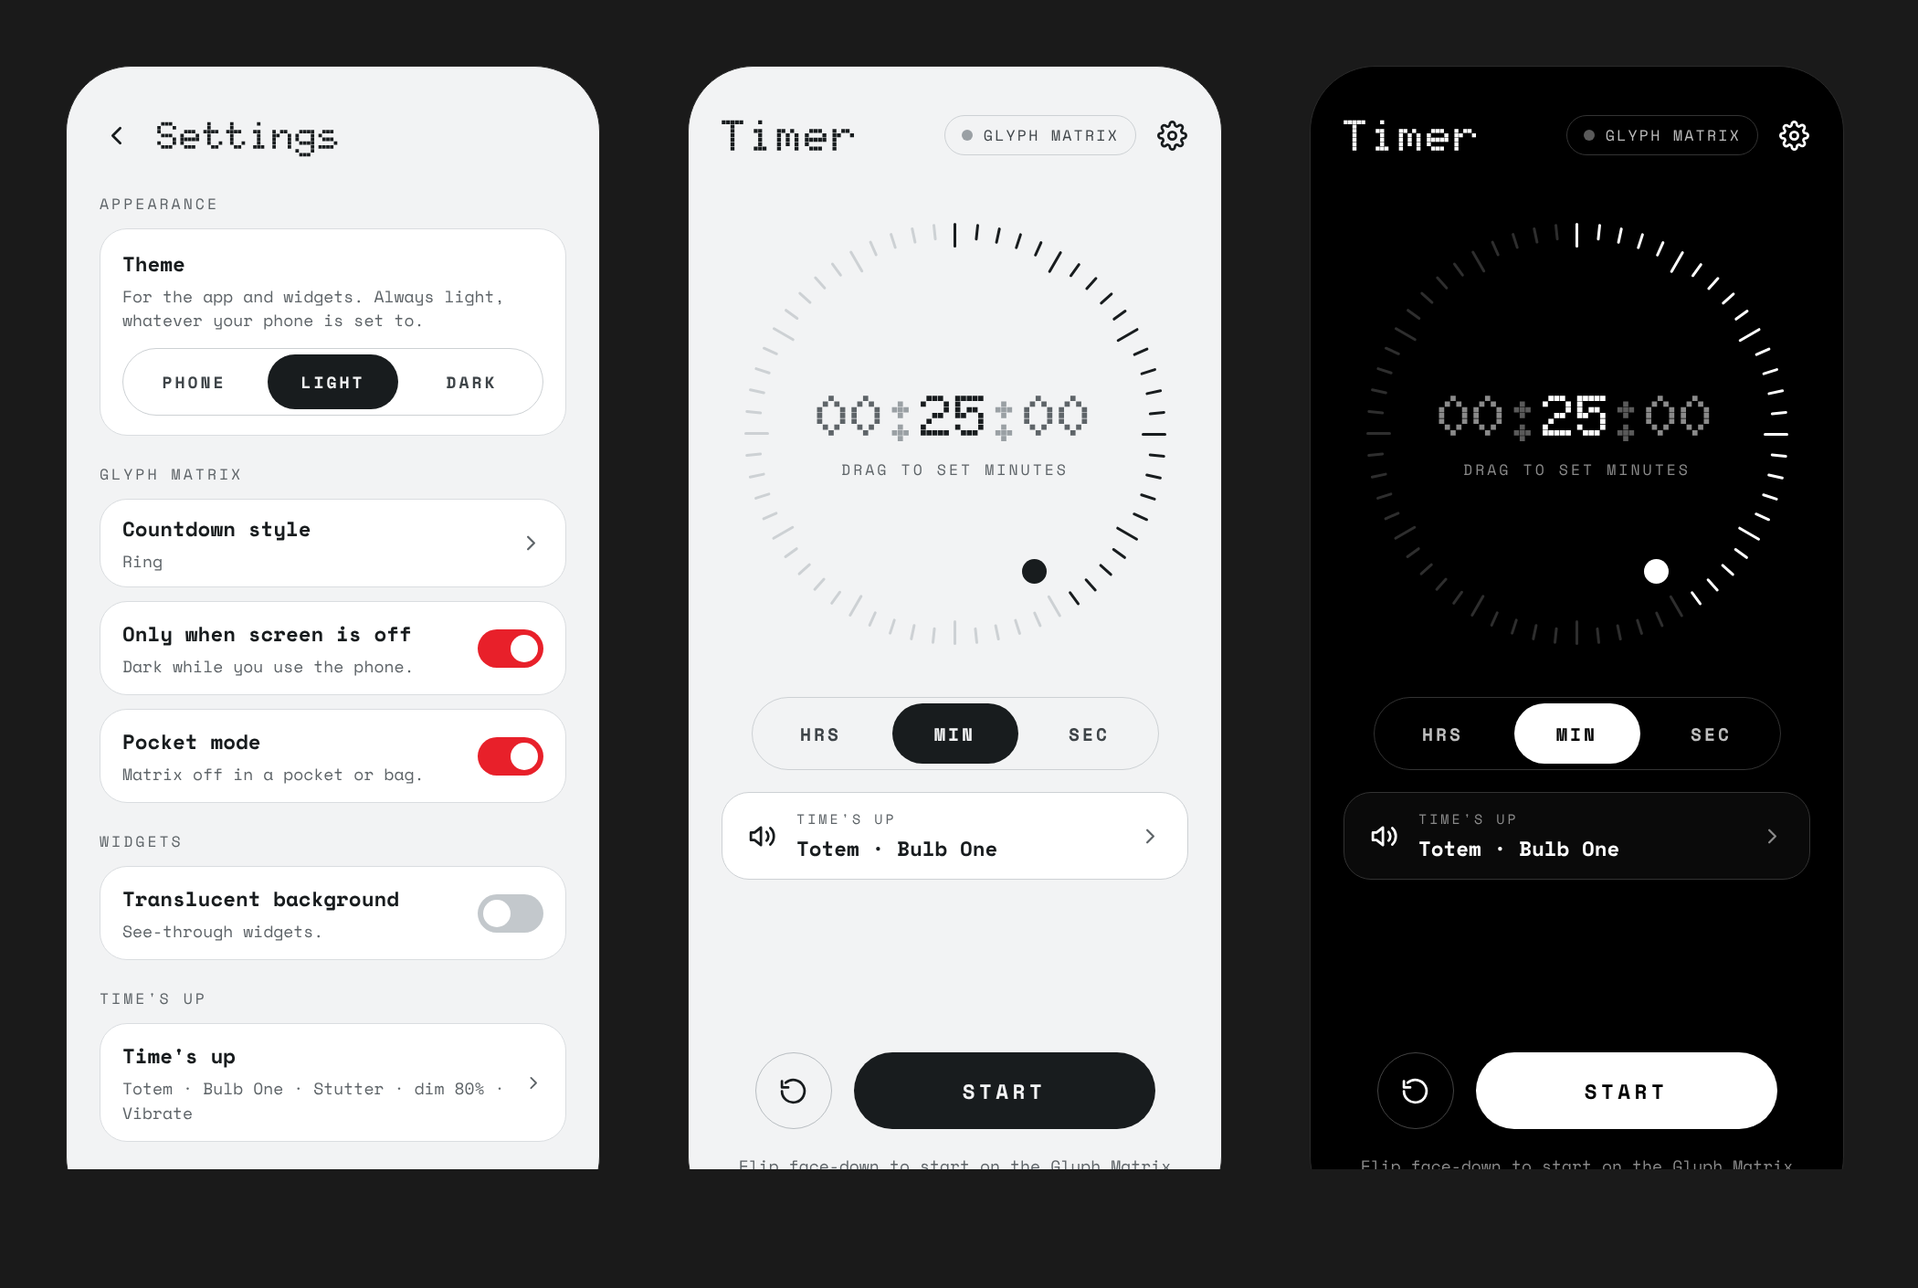
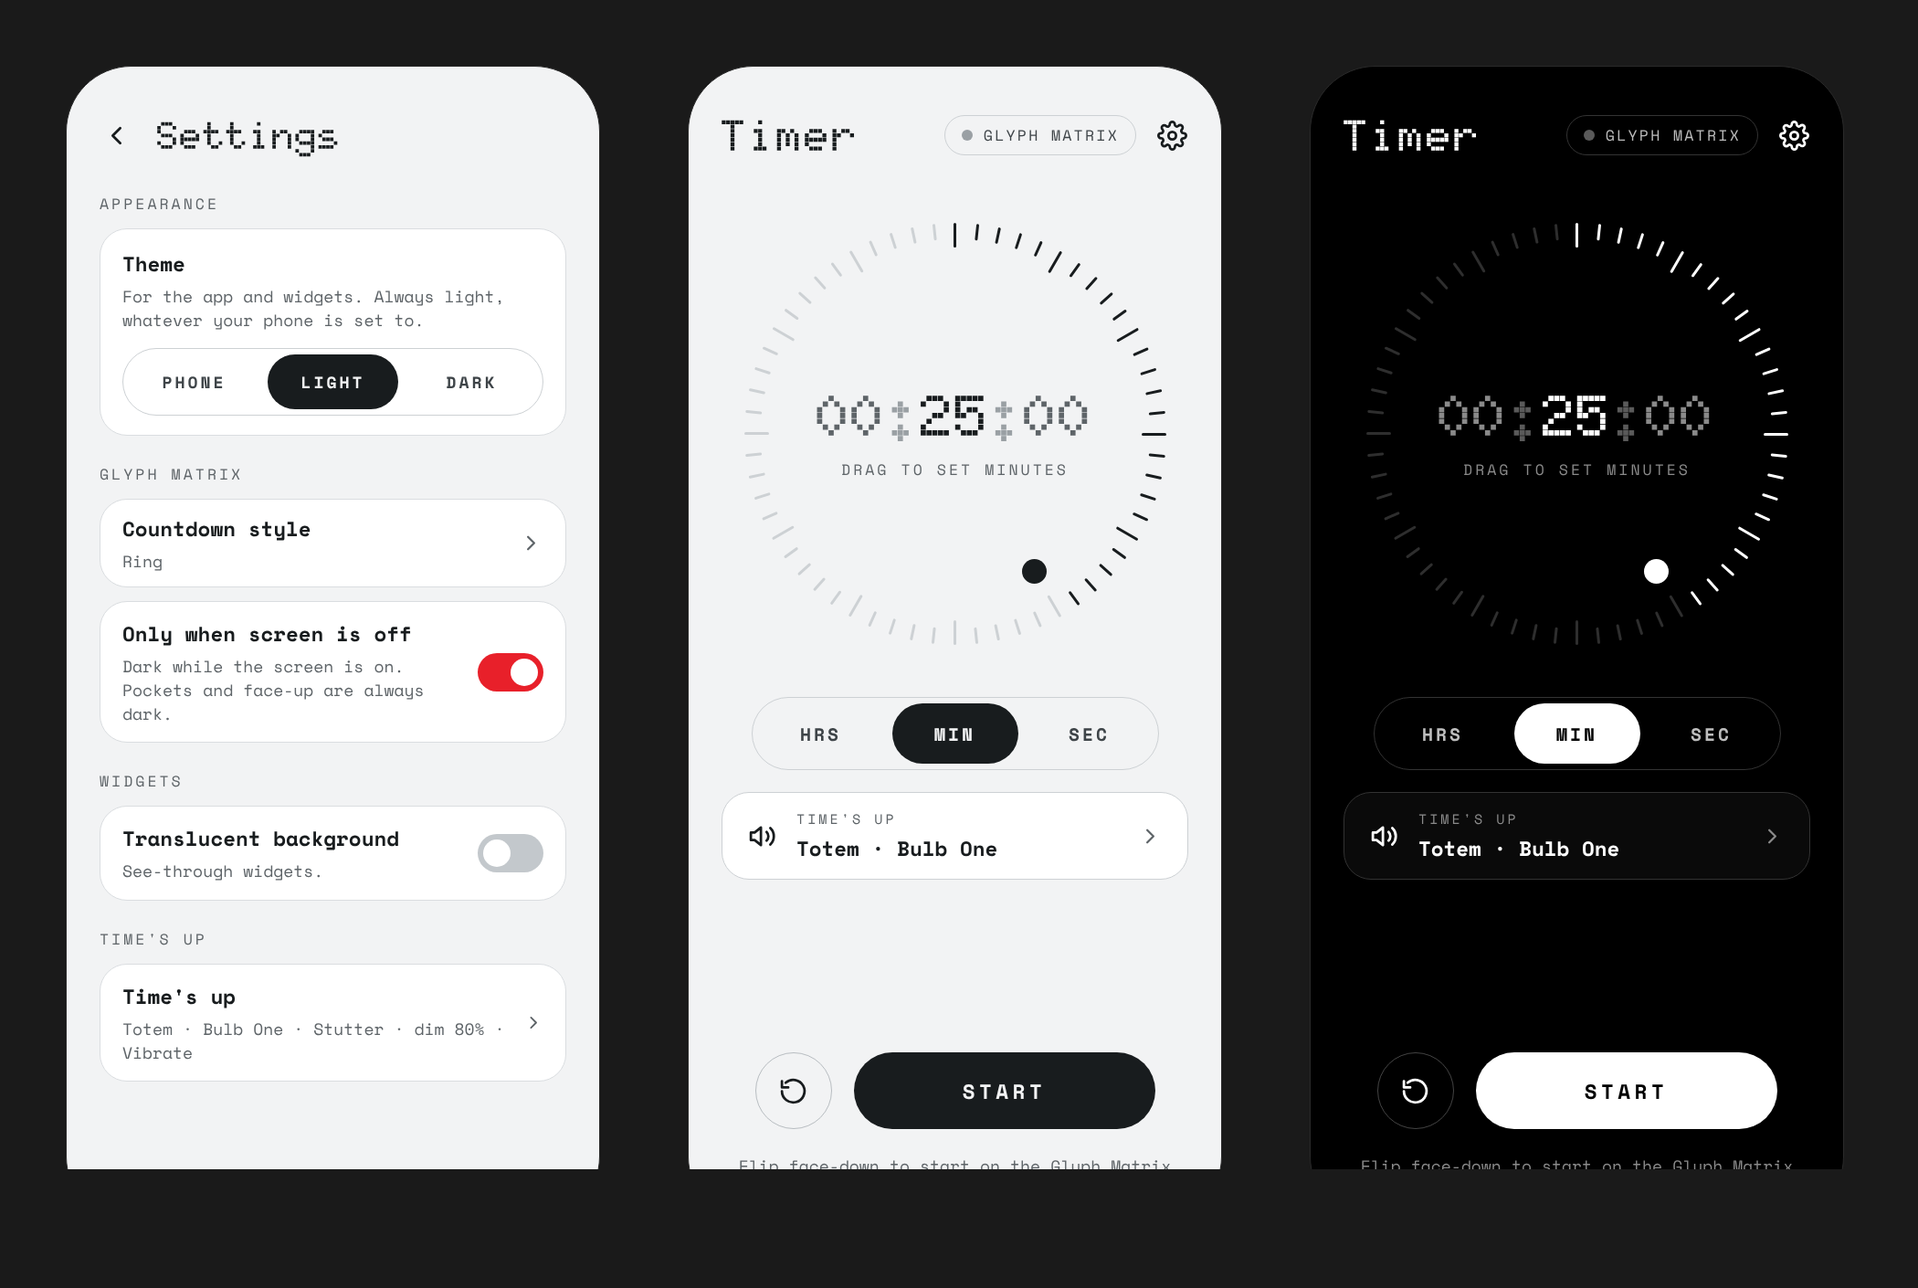
Glyph Countdown 1.4.2: sensor-based visibility replaces pocket mode
- Placement detector (proximity, angle, stillness): lit face-down on a
  table or in hand with the screen off; dark in a pocket or bag, face-up
  on a table, or while the screen is on
- Stillness uses median jitter plus slow angle drift over 3 s, with
  knock-proof angle filtering, so a seated pocket isn't taken for a table
- Pocket mode setting removed; README, design images, release notes

Claude-Session: https://claude.ai/code/session_01KsCjPjN7msvXaRxsW5Af71

Changed region(s): [[0.0619, 0.4993, 0.2167, 0.8738], [0.2476, 0.4681, 0.3095, 0.7489], [0.2167, 0.7801, 0.2476, 0.8113]]

diff --git a/app/src/com/glyphcountdown/app/TimerService.java b/app/src/com/glyphcountdown/app/TimerService.java
@@ -85,55 +85,39 @@ public class TimerService extends Service {
         }
     };
 
-    // ---- pocket mode: matrix off while the front sensor is covered and the phone isn't flat face-down
+    // ---- where the phone is: the matrix lights face-down on a table or in your hand with the screen
+    //      off, and stays dark face-up on a table or covered (pocket or bag). See Placement.
     private SensorManager sensors;
-    private boolean near, flatFaceDown, pocketed, sensorsOn;
-    private final Runnable enterPocket = new Runnable() {
-        @Override public void run() { pocketed = true; pushMatrix(); }
-    };
-    private final SensorEventListener pocketListener = new SensorEventListener() {
+    private final Placement placement = new Placement();
+    private boolean sensorsOn;
+    private final SensorEventListener placementListener = new SensorEventListener() {
         @Override public void onSensorChanged(SensorEvent e) {
+            long t = SystemClock.elapsedRealtime();
+            boolean changed;
             if (e.sensor.getType() == Sensor.TYPE_PROXIMITY) {
                 float max = e.sensor.getMaximumRange();
-                near = e.values[0] < Math.min(max, 5f);
+                changed = placement.proximity(t, e.values[0] < Math.min(max, 5f));
             } else {
-                float x = e.values[0], y = e.values[1], z = e.values[2];
-                boolean fd = z < -8.5f && Math.abs(x) < 2.5f && Math.abs(y) < 2.5f;
-                if (fd != flatFaceDown) { flatFaceDown = fd; pushMatrix(); }
+                changed = placement.accel(t, e.values[0], e.values[1], e.values[2]);
             }
-            if (!Prefs.get(TimerService.this, Prefs.POCKET)) return;
-            boolean want = near && !flatFaceDown;
-            if (want && !pocketed) {
-                handler.removeCallbacks(enterPocket);
-                handler.postDelayed(enterPocket, 1000); // ignore a hand brushing the sensor
-            } else if (!want) {
-                handler.removeCallbacks(enterPocket);
-                if (pocketed) { pocketed = false; pushMatrix(); }
-            }
+            if (changed) pushMatrix();
         }
         @Override public void onAccuracyChanged(Sensor s, int a) {}
     };
 
-    private void startPocketSensors() {
+    private void startPlacementSensors() {
         if (sensorsOn) return;
         sensors = getSystemService(SensorManager.class);
         Sensor prox = sensors.getDefaultSensor(Sensor.TYPE_PROXIMITY);
-        Sensor grav = sensors.getDefaultSensor(Sensor.TYPE_GRAVITY);
-        if (grav == null) grav = sensors.getDefaultSensor(Sensor.TYPE_ACCELEROMETER);
-        // orientation is always tracked (face-down shows the matrix); proximity only for pocket mode
-        if (grav != null) sensors.registerListener(pocketListener, grav, SensorManager.SENSOR_DELAY_NORMAL);
-        if (prox != null && Prefs.get(this, Prefs.POCKET))
-            sensors.registerListener(pocketListener, prox, SensorManager.SENSOR_DELAY_NORMAL);
+        Sensor acc = sensors.getDefaultSensor(Sensor.TYPE_ACCELEROMETER);
+        if (acc != null) sensors.registerListener(placementListener, acc, 40_000);   // 25 readings a second
+        if (prox != null) sensors.registerListener(placementListener, prox, SensorManager.SENSOR_DELAY_NORMAL);
         sensorsOn = true;
     }
 
-    private void stopPocketSensors() {
-        handler.removeCallbacks(enterPocket);
-        if (sensorsOn && sensors != null) sensors.unregisterListener(pocketListener);
+    private void stopPlacementSensors() {
+        if (sensorsOn && sensors != null) sensors.unregisterListener(placementListener);
         sensorsOn = false;
-        near = false;
-        flatFaceDown = false;
-        pocketed = false;
     }
 
     public static void send(Context c, String action) {
@@ -198,7 +182,7 @@ public class TimerService extends Service {
         startForeground(NOTIF_ID, buildNotification(), ServiceInfo.FOREGROUND_SERVICE_TYPE_SPECIAL_USE);
         acquireWake();
         initMatrix();
-        startPocketSensors();
+        startPlacementSensors();
         handler.removeCallbacks(tick); handler.removeCallbacks(blink); handler.removeCallbacks(animTick);
         handler.post(tick);
         st.notifyChanged();
@@ -232,7 +216,7 @@ public class TimerService extends Service {
     private void reset() {
         handler.removeCallbacksAndMessages(null);
         if (backTap != null) backTap.stop();
-        stopPocketSensors();
+        stopPlacementSensors();
         stopAlarm();
         releaseWake();
         closeMatrix();
@@ -359,8 +343,9 @@ public class TimerService extends Service {
     private int[] matrixFrame() {
         int n = matrixSize;
         // face-down on a table counts as screen off: nobody can see the screen (flip to start)
-        boolean hidden = screenOn && !flatFaceDown && Prefs.get(this, Prefs.SCREEN_OFF_ONLY);
-        if (pocketed || hidden) return new int[n * n];
+        int where = placement.state();
+        boolean hidden = screenOn && where != Placement.TABLE_DOWN && Prefs.get(this, Prefs.SCREEN_OFF_ONLY);
+        if (!Placement.lights(where) || hidden) return new int[n * n];
         if (st.mode == TimerState.DONE && !MorphEngine.DEFAULT.equals(anim)) return animFrame(n);
         String style = Prefs.style(this);
         if ((st.mode == TimerState.RUN || st.mode == TimerState.PAUSE) && !CountdownStyles.RING.equals(style)) {
@@ -574,7 +559,7 @@ public class TimerService extends Service {
         handler.removeCallbacksAndMessages(null);
         try { unregisterReceiver(screenReceiver); } catch (Throwable ignored) {}
         if (backTap != null) backTap.stop();
-        stopPocketSensors();
+        stopPlacementSensors();
         stopAlarm();
         releaseWake();
         closeMatrix();

diff --git a/app/src/com/glyphcountdown/app/Placement.java b/app/src/com/glyphcountdown/app/Placement.java
@@ -1,0 +1,120 @@
+package com.glyphcountdown.app;
+
+/**
+ * Works out where the phone is from its motion and proximity sensors, to decide whether the Glyph
+ * Matrix should light. A table is the only place a phone lies both flat and perfectly still;
+ * a body (even sitting, with the phone nearly flat in a pocket) always moves a little: jitter,
+ * or a slow drift in its angle as you breathe or shift.
+ *
+ * <ul>
+ *   <li>{@link #TABLE_DOWN}: flat, screen down, still: the matrix faces up, so it lights.</li>
+ *   <li>{@link #TABLE_UP}: flat, screen up, still: the matrix faces the table, so it stays dark.</li>
+ *   <li>{@link #COVERED}: the front sensor is covered and it isn't on a table: pocket or bag, dark.</li>
+ *   <li>{@link #OPEN}: anything else, such as in your hand: lights (unless the screen is on).</li>
+ * </ul>
+ * Plain Java: fed readings with timestamps, so it can be tested off the phone.
+ */
+final class Placement {
+    static final int OPEN = 0, TABLE_DOWN = 1, TABLE_UP = 2, COVERED = 3;
+
+    private static final double DOWN_XY = 0.9;       // face-down: within about 5° of flat (it rests on its screen)
+    private static final double UP_XY = 1.5;         // face-up: about 9°, the camera bump tilts it a little
+    private static final double FLAT_Z = 9.0;
+    private static final double STILL_WOBBLE = 0.04, MOVING_WOBBLE = 0.09;  // m/s², quick jitter
+    private static final double STILL_DRIFT = 0.05, MOVING_DRIFT = 0.12;    // m/s², slow change of angle
+    private static final long WINDOW_MS = 3000;
+    private static final long SETTLE_MS = 500, COVER_SETTLE_MS = 1000;  // ignore a hand brushing the sensor
+    private static final int N = 512, SPIKE = 9;     // buffer size; readings in the knock filter
+
+    private final long[] times = new long[N];
+    private final double[] rx = new double[N], ry = new double[N], rz = new double[N];   // raw readings
+    private final double[] gx = new double[N], gy = new double[N], gz = new double[N];   // de-spiked angle
+    private final double[] mags = new double[N];
+    private int head, count;
+    private boolean near, still;
+    private int state = OPEN, pending = OPEN;
+    private long pendingSince;
+
+    int state() { return state; }
+
+    /** Whether the matrix should light here (before the screen-on rule). */
+    static boolean lights(int state) { return state == OPEN || state == TABLE_DOWN; }
+
+    /** Proximity reading. Returns true if the settled state changed. */
+    boolean proximity(long t, boolean isNear) {
+        near = isNear;
+        return update(t);
+    }
+
+    /** Raw accelerometer reading in m/s². Returns true if the settled state changed. */
+    boolean accel(long t, double x, double y, double z) {
+        times[head] = t; rx[head] = x; ry[head] = y; rz[head] = z;
+        mags[head] = Math.sqrt(x * x + y * y + z * z);
+        if (count < N) count++;
+        // the angle uses the median of the last few readings, so a knock or tap can't jolt it
+        int m = Math.min(SPIKE, count);
+        gx[head] = recentMedian(rx, m); gy[head] = recentMedian(ry, m); gz[head] = recentMedian(rz, m);
+        head = (head + 1) % N;
+        judgeStillness(t);
+        return update(t);
+    }
+
+    private double recentMedian(double[] a, int m) {
+        double[] v = new double[m];
+        for (int k = 0; k < m; k++) v[k] = a[(head - k + N) % N];
+        return median(v, m);
+    }
+
+    /**
+     * Still means both: little quick jitter (median deviation, so single knocks don't count) and
+     * no slow drift in the phone's angle over 3 s (a body breathing or shifting always drifts).
+     */
+    private void judgeStillness(long t) {
+        double[] v = new double[count];
+        double loX = 1e9, hiX = -1e9, loY = 1e9, hiY = -1e9, loZ = 1e9, hiZ = -1e9;
+        int n = 0;
+        long oldest = t;
+        for (int k = 0; k < count; k++) {
+            int i = (head - 1 - k + N) % N;
+            if (t - times[i] > WINDOW_MS) break;
+            v[n++] = mags[i];
+            loX = Math.min(loX, gx[i]); hiX = Math.max(hiX, gx[i]);
+            loY = Math.min(loY, gy[i]); hiY = Math.max(hiY, gy[i]);
+            loZ = Math.min(loZ, gz[i]); hiZ = Math.max(hiZ, gz[i]);
+            oldest = times[i];
+        }
+        if (n < 20 || t - oldest < WINDOW_MS * 0.8) { still = false; return; }
+        double med = median(v, n);
+        for (int i = 0; i < n; i++) v[i] = Math.abs(v[i] - med);
+        double wobble = 1.4826 * median(v, n);
+        double drift = Math.max(hiX - loX, Math.max(hiY - loY, hiZ - loZ));
+        if (still && (wobble > MOVING_WOBBLE || drift > MOVING_DRIFT)) still = false;
+        else if (!still && wobble < STILL_WOBBLE && drift < STILL_DRIFT) still = true;
+    }
+
+    private static double median(double[] v, int n) {
+        double[] c = java.util.Arrays.copyOf(v, n);
+        java.util.Arrays.sort(c);
+        return n % 2 == 1 ? c[n / 2] : (c[n / 2 - 1] + c[n / 2]) / 2;
+    }
+
+    private int raw() {
+        if (count > 0) {
+            int i = (head - 1 + N) % N;
+            double ax = Math.abs(gx[i]), ay = Math.abs(gy[i]), z = gz[i];
+            if (still && z < -FLAT_Z && ax < DOWN_XY && ay < DOWN_XY) return TABLE_DOWN;
+            if (still && z > FLAT_Z && ax < UP_XY && ay < UP_XY) return TABLE_UP;
+        }
+        if (near) return COVERED;
+        return OPEN;
+    }
+
+    private boolean update(long t) {
+        int r = raw();
+        if (r == state) { pending = r; return false; }
+        if (r != pending) { pending = r; pendingSince = t; return false; }
+        if (t - pendingSince < (r == COVERED ? COVER_SETTLE_MS : SETTLE_MS)) return false;
+        state = r;
+        return true;
+    }
+}

diff --git a/app/src/com/glyphcountdown/app/SettingsActivity.java b/app/src/com/glyphcountdown/app/SettingsActivity.java
@@ -155,9 +155,7 @@ public class SettingsActivity extends Activity {
         cs.addView(text("›", 22, GREY, Fonts.mono(this)));
         col.addView(cs, rowLp());
         col.addView(toggle(Prefs.SCREEN_OFF_ONLY, "Only when screen is off",
-                "The matrix goes dark while you're using the phone, and lights when the screen is off or the phone is face-down."), rowLp());
-        col.addView(toggle(Prefs.POCKET, "Pocket mode",
-                "Turns the Glyph Matrix off while the phone is in a pocket or bag. Face-down on a table still shows it."), rowLp());
+                "Dark while the screen is on. In a pocket, a bag or face-up on a table it's always dark, by itself."), rowLp());
 
         section(col, "WIDGETS");
         col.addView(toggle(Prefs.TRANSLUCENT, "Translucent background",

diff --git a/app/src/com/glyphcountdown/app/Prefs.java b/app/src/com/glyphcountdown/app/Prefs.java
@@ -5,7 +5,7 @@ import android.content.SharedPreferences;
 
 /** On/off settings from the Settings screen. */
 final class Prefs {
-    static final String POCKET = "pocket_mode", TRANSLUCENT = "widget_translucent",
+    static final String TRANSLUCENT = "widget_translucent",
             VIBRATE = "alarm_vibrate", SCREEN_OFF_ONLY = "matrix_screen_off_only", SYNC = "anim_sync",
             DIM = "anim_dim", TAP_DISMISS = "double_tap_dismiss";
     private static final String ANIM = "times_up_animation";

diff --git a/README.md b/README.md
@@ -37,8 +37,8 @@ face-down to start, and watch the countdown on the back.
 <p align="center"><img src="docs/design/times-up-animations.png" width="700" alt="Live preview of Totem beside a gallery of all eleven time's-up options, with a switch between Phone (3) and Phone (4a) Pro"></p>
 <p align="center"><em>All eleven time's-up options, on the Phone (3) or Phone (4a) Pro matrix</em></p>
 
-<p align="center"><img src="docs/design/settings-screen-off.png" width="820" alt="Settings with the Time's up row, Only when screen is off and Pocket mode, beside four cases showing when the Glyph Matrix lights"></p>
-<p align="center"><em>Only when screen is off: the matrix goes dark while you're using the phone</em></p>
+<p align="center"><img src="docs/design/settings-screen-off.png" width="820" alt="Settings with Countdown style, Only when screen is off and the Time's up row, beside six cases showing when the Glyph Matrix lights"></p>
+<p align="center"><em>When the Glyph Matrix lights: face-down or in your hand, never in a pocket or face-up</em></p>
 
 <p align="center"><img src="docs/design/light-and-dark-themes.png" width="820" alt="Settings in light theme with the Theme picker set to Light, beside the timer screen in light and in dark"></p>
 <p align="center"><em>Settings › Theme (Phone, Light or Dark), and the timer screen in light and dark</em></p>
@@ -85,11 +85,15 @@ on a Nothing phone the app itself uses Nothing's NDot font, which can't be inclu
   - **Phone (3)**, 25 × 25: H:MM from an hour up (the colon blinks each second), MM:SS below.
   - **Phone (4a) Pro**, 13 × 13: one number — hours ("2h"), minutes, or seconds in the last
     minute.
-- **Only when screen is off**: the matrix goes dark while you're using the phone and lights
-  when the screen is off. Face-down counts as off, so flip to start shows the countdown
-  even with the app open. On by default; switch it off to keep the matrix lit all the time.
-- **Pocket mode**: the matrix turns off while the phone is in a pocket or bag and comes back
-  when you take it out. Face-down on a table still shows it.
+- **Lights only where you can see it**: the phone works out where it is from its sensors,
+  with nothing to set up.
+  - **Lit**: face-down on a table (even with the app open, so flip to start shows the
+    countdown), or in your hand with the screen off.
+  - **Dark**: while you use the screen, in a pocket or bag, and face-up on a table.
+  - A table is the only place a phone lies flat and perfectly still, so a pocket is never
+    mistaken for one, even when you're sitting down.
+  - **Only when screen is off** (on by default) can be switched off to keep the matrix lit
+    while you use the screen; pockets and face-up stay dark either way.
 
 ### Time's up
 Everything that happens when the timer ends is set on one page (Settings › Time's up, or the
@@ -137,7 +141,7 @@ Tap the gear on the timer screen:
 | Section | Options |
 |---|---|
 | Time's up | Opens the Time's up page: animation, sound, sync, dimming, dim level, vibrate, double-tap to dismiss |
-| Glyph Matrix | Countdown style · Only when screen is off · Pocket mode |
+| Glyph Matrix | Countdown style · Only when screen is off |
 | Appearance | Theme: Phone, Light or Dark |
 | Widgets | Translucent background |
 
@@ -213,6 +217,7 @@ file, commit, then `git tag v1.5 && git push origin v1.5`.
 | `app/src/…/MorphEngine.java` | The ten time's-up animations, for both matrix sizes |
 | `app/src/…/CountdownStyles.java`, `CountdownStyleActivity.java` | The ten countdown styles and their picker |
 | `app/src/…/BackTapDetector.java` | Double-tap on the back to dismiss the alarm |
+| `app/src/…/Placement.java` | Works out where the phone is (table, hand, pocket) to light or darken the matrix |
 | `app/src/…/SoundSync.java` | Reads the alarm sound's notes; stutter, dimming and the time's-up frame |
 | `app/src/…/TimesUpActivity.java` | The Time's up page: animation, sound, sync, dimming, vibrate, live preview |
 | `app/src/…/Sounds.java` | The phone's alarm and notification sound lists |

diff --git a/docs/release-notes/v1.4.2.md b/docs/release-notes/v1.4.2.md
@@ -1,0 +1,16 @@
+The Glyph Matrix now works out for itself where the phone is, so it no longer lights up in your pocket while you're sitting down.
+
+### Fixed
+- **Lit in a pocket while sitting**: Pocket mode treated "flat and face-down" as being on a table, and a phone in a pocket can lie that way when you sit. A table is the only place a phone is both flat and perfectly still, so the app now checks for stillness too.
+
+### Changed
+- **Pocket mode is gone; it all happens by itself.** Using the proximity sensor, the phone's angle and how still it is:
+  - **Lit**: face-down on a table (even with the app open), and in your hand with the screen off.
+  - **Dark**: in a pocket or bag (sitting or standing), face-up on a table, and while you use the screen.
+- Laid face-down on a table, the matrix lights after about 3 seconds, once the phone has settled. Picked up, it reacts in under a second.
+- A knock on the table, or a double tap to dismiss the alarm, doesn't count as movement.
+
+### Install
+Download the APK below and open it on your phone; it installs over earlier versions and keeps your settings. Requires Android 13+.
+
+Built and signed by GitHub Actions from the tagged commit. Unofficial app, not affiliated with Nothing. Provided as-is under the MIT licence.
